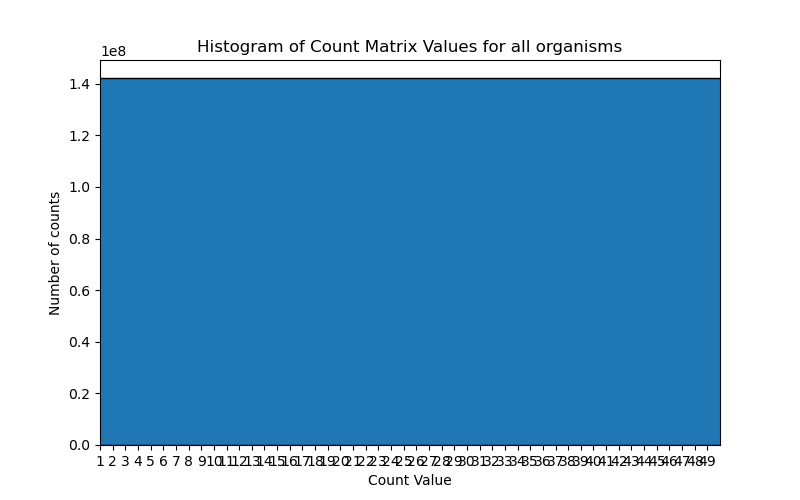
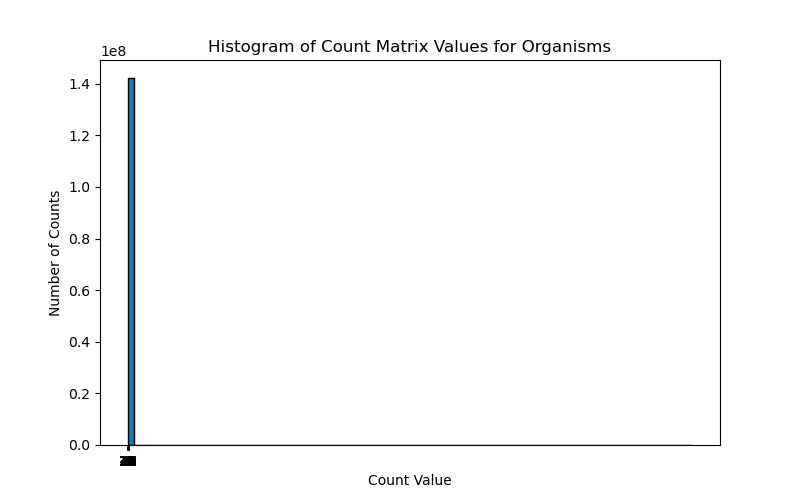
histogram fix

diff --git a/histograms/histogram_organisms.py b/histograms/histogram_organisms.py
@@ -1,34 +1,36 @@
 import numpy as np
 import pandas as pd
 import matplotlib.pyplot as plt
-import os
 
-organisms = [
-    "/storage/shared/data_for_master_students/ida_and_ellen/taxonomy_wastewater_1.tsv",
-    "/storage/shared/data_for_master_students/ida_and_ellen/taxonomy_wastewater_2.tsv", 
-    "/storage/shared/data_for_master_students/ida_and_ellen/taxonomy_human_gut.csv"
-]
+# organisms = [
+#     "/storage/shared/data_for_master_students/ida_and_ellen/taxonomy_wastewater_1.tsv",
+#     "/storage/shared/data_for_master_students/ida_and_ellen/taxonomy_wastewater_2.tsv", 
+#     "/storage/shared/data_for_master_students/ida_and_ellen/taxonomy_human_gut.csv"
+# ]
 
-all_values = []
+# all_values = []  # Start as an empty list
 
-for i in organisms:  # i is the file path string
-    df = pd.read_csv(i, sep="\t").iloc[:, 1:]
-    df = df.fillna(0)
-    all_values.extend(df.values.flatten())
-    print(i)
+# for i in organisms:  
+#     df = pd.read_csv(i, sep="\t").iloc[:, 1:]
+#     df = df.fillna(0)  # Replace NaNs with 0
+#     all_values.extend(df.values.flatten())  # Convert DataFrame values to list
 
-# Convert list to NumPy array for calculations
-all_values = np.array(all_values, dtype=int)
+file_path = "/storage/shared/data_for_master_students/ida_and_ellen/taxonomy_wastewater_1.tsv"
 
-print(f"Number of values: {len(all_values)}")
-print(f"Number of bins: {(all_values.max() + 2) - 0.5}")
 
-# Create histogram
+df = pd.read_csv(file_path, sep="\t").iloc[:, 1:]
+df = df.fillna(0)
+all_values = df.values.flatten().astype(int)
+
+# Debugging: Check min and max values
+print(f"Min count: {all_values.min()}, Max count: {all_values.max()}")
+print(f"Total values: {len(all_values)}")
+
+# Create the histogram
 plt.figure(figsize=(8, 5))
 plt.hist(all_values, bins=np.arange(all_values.max() + 2) - 0.5, edgecolor='black')
 plt.xlabel("Count Value")
-plt.ylabel("Number of counts")
-plt.title("Histogram of Count Matrix Values for all organisms")
-plt.xticks(range(min(50, all_values.max() + 1)))  # Ensure discrete x-axis values
-plt.xlim([1,50])
-plt.savefig("histograms/bilder/organisms_all/histogram_organisms.png")
+plt.ylabel("Number of Counts")
+plt.title("Histogram of Count Matrix Values")
+plt.xticks(range(min(50, all_values.max() + 1)))# Ensure discrete values on x-axis
+plt.savefig("histograms/bilder/histogram_ww1.png")

diff --git a/histograms/histogram_ww.py b/histograms/histogram_ww.py
@@ -1,0 +1,33 @@
+import numpy as np
+import pandas as pd
+import matplotlib.pyplot as plt
+import os
+
+organisms = [
+    "/storage/shared/data_for_master_students/ida_and_ellen/taxonomy_wastewater_1.tsv",
+    "/storage/shared/data_for_master_students/ida_and_ellen/taxonomy_wastewater_2.tsv"
+]
+
+all_values = []
+
+for i in organisms:  # i is the file path string
+    df = pd.read_csv(i, sep="\t").iloc[:, 1:]
+    df = df.fillna(0)
+    all_values.extend(df.values.flatten())
+    print(i)
+
+# Convert list to NumPy array for calculations
+all_values = np.array(all_values, dtype=int)
+
+print(f"Number of values: {len(all_values)}")
+print(f"Number of bins: {(all_values.max() + 2) - 0.5}")
+
+# Create histogram
+plt.figure(figsize=(8, 5))
+plt.hist(all_values, bins=10000, edgecolor='black') #bins=np.arange(all_values.max() + 2) - 0.5
+plt.xlabel("Count Value")
+plt.ylabel("Number of counts")
+plt.title("Histogram of Count Matrix Values for all organisms from waste water samples")
+plt.xticks(range(min(50, all_values.max() + 1)))  # Ensure discrete x-axis values
+#plt.xlim([1,50])
+plt.savefig("histograms/bilder/organisms_all/histogram_wastewater.png")

diff --git a/histograms/histogram_genes.py b/histograms/histogram_genes.py
@@ -12,6 +12,9 @@ all_values = df.values.flatten()
 # sample_size = int(0.1 * len(all_values))  
 # random_sample = np.random.choice(all_values, sample_size, replace=False)
 
+print(f"Number of values: {len(all_values)}")
+print(f"Number of bins: {(all_values.max() + 2) - 0.5}")
+
 # Plot histogram
 plt.figure(figsize=(8, 5))
 plt.hist(all_values, bins=np.arange(all_values.max() + 2) - 0.5, edgecolor='black')
